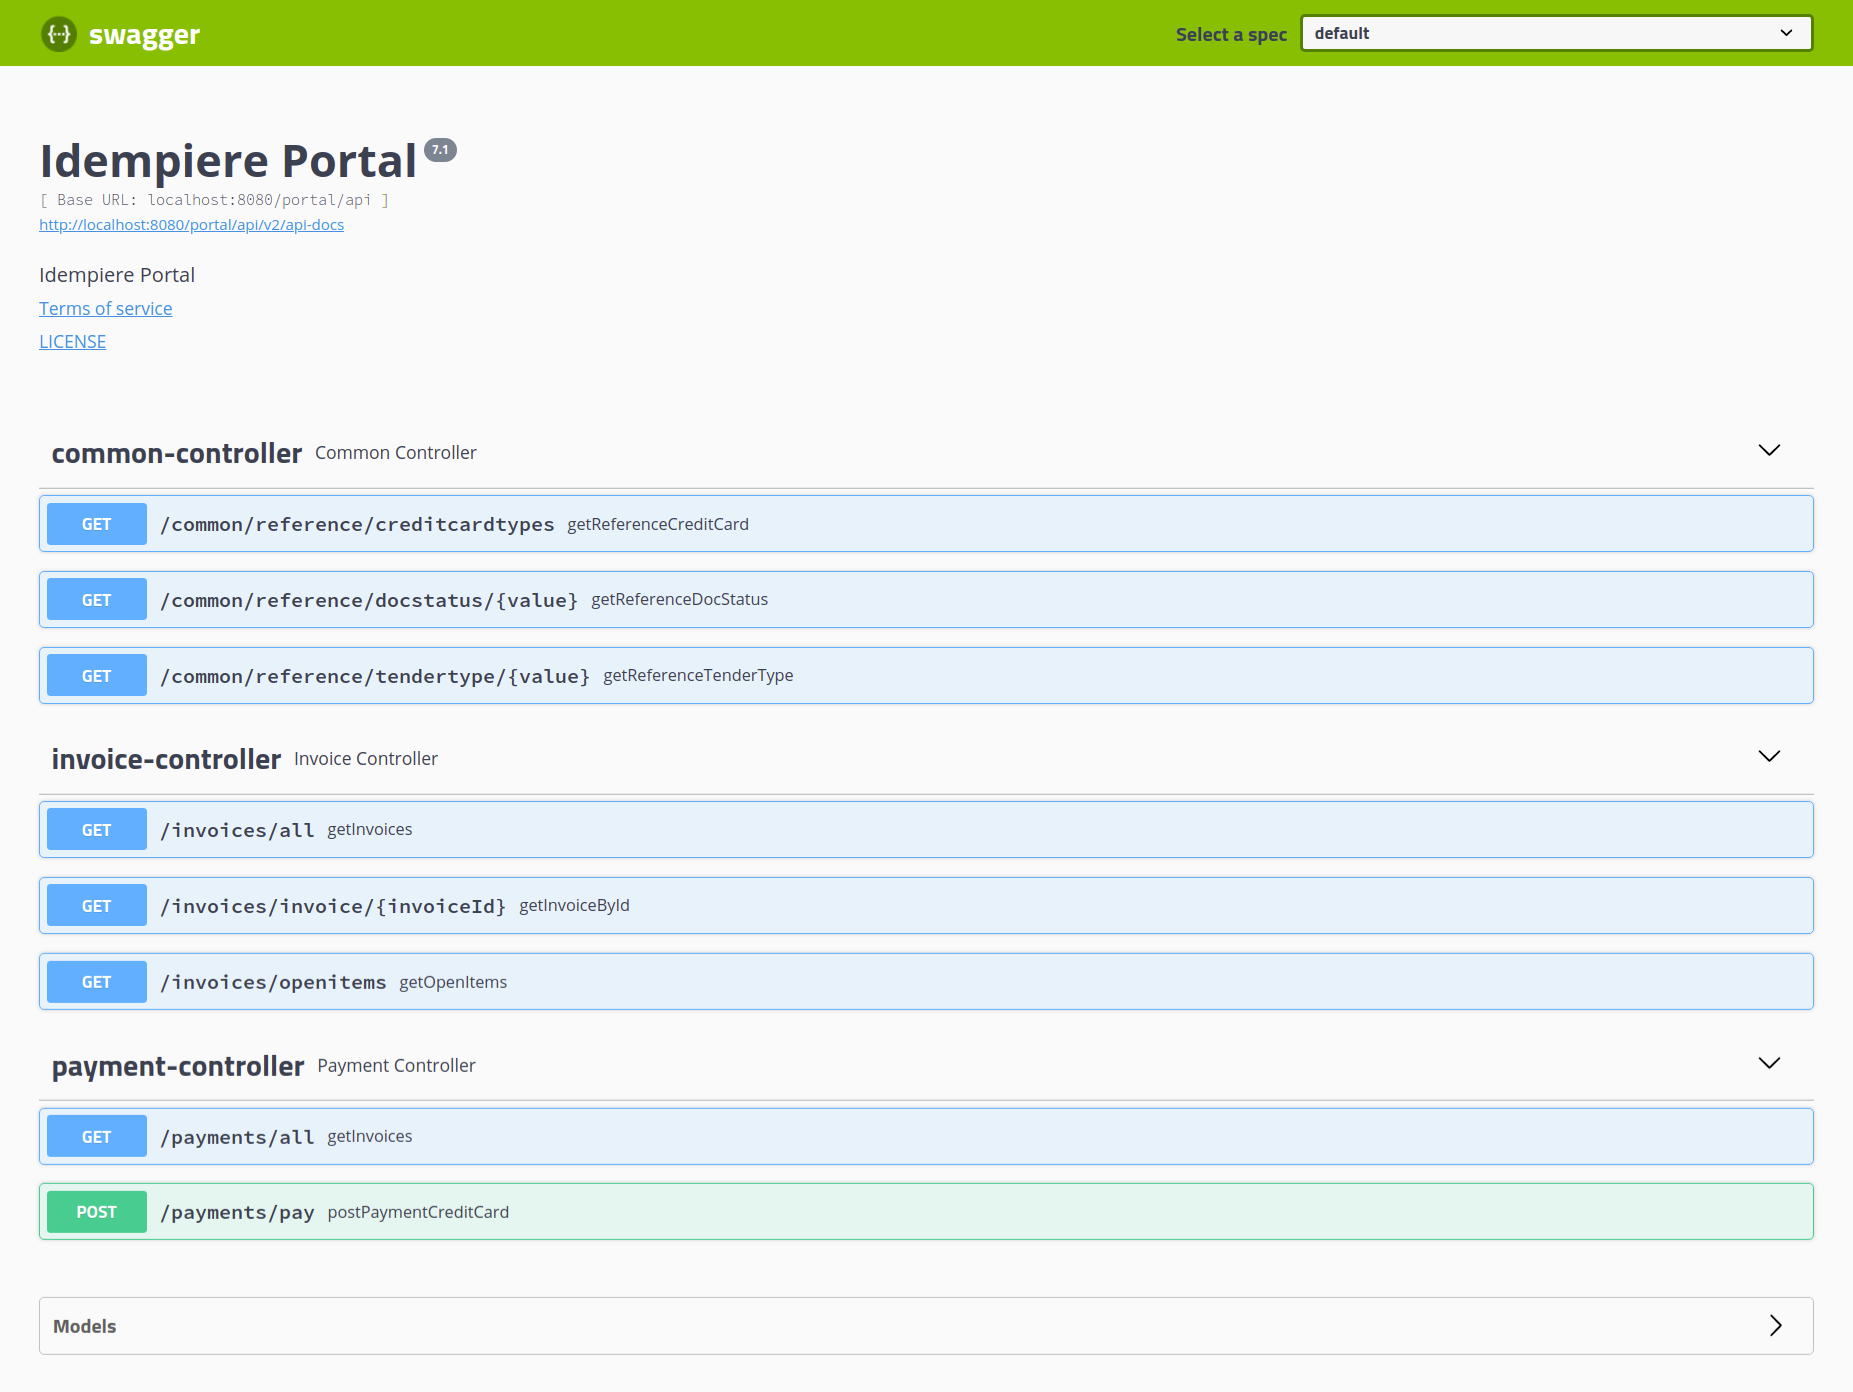
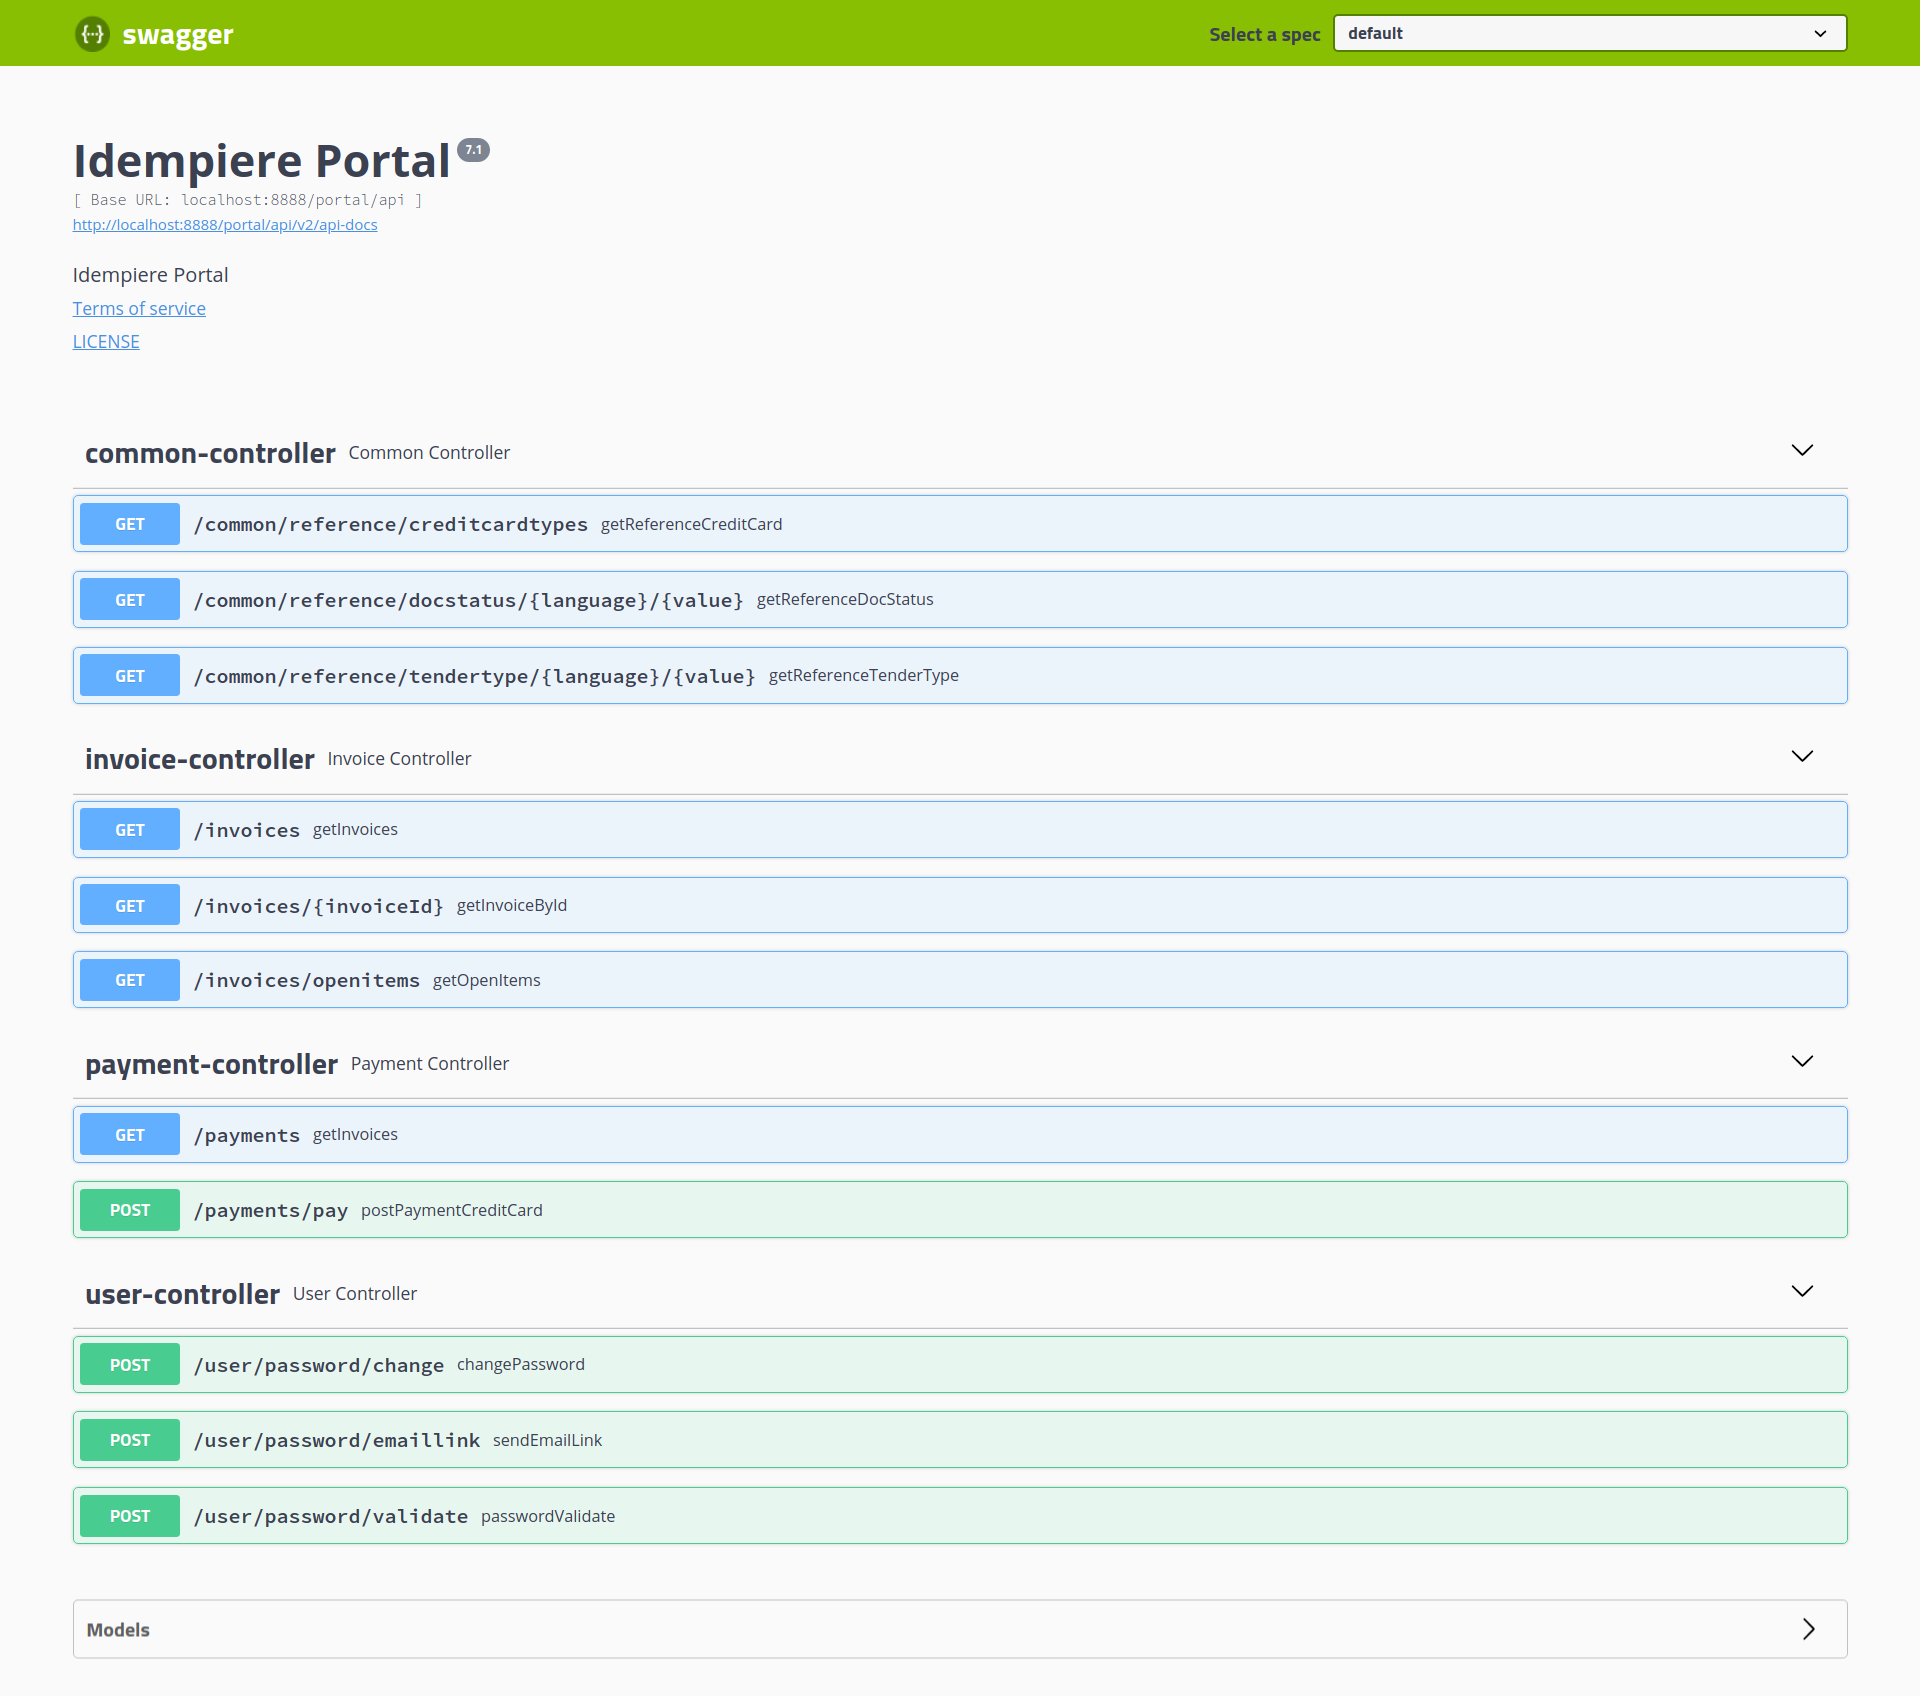
Changing Swagger Image

diff --git a/README.md b/README.md
@@ -12,8 +12,10 @@ This plugin is fully dependent on Spring Framework and integrates its features:
 
 *   Spring configuration with @Configuration annotation
 *	Idempiere context injected by application.properties
-*	Simple architecture with @Autowire annotation 
+*	Simple architecture with @Autowired annotation 
 *   JdbcTemplate used over native DB Idempiere static database connection
+*	Possibility to map Idempiere Model with BeanPropertyRowMapper
+*	Spring Security integrated
  
 
 From a functional point of view this plugin provides following features:
@@ -32,21 +34,13 @@ To build this plugin you need to get sources in your project directory:
 ```shell
 git clone https://github.com/icreated/portal-api.git
 ```
-**Important!**
-Edit pom.xml to link native Idempiere libraries with parent project.
-If you put sources directly in Idempiere sources folder, it will be
-
-```xml
-<relativePath>../org.idempiere.parent/pom.xml</relativePath>
-```
-like others Idempiere plugins, otherwise modify it.
 
 Be sure to satisfy all required dependencies. All needed jars are added directly to lib folder.
 
 
 ### Deploying / Publishing / Testing
 Check if it works by accessing to Swagger Home Page:
-[http://localhost:8080/portal/api/swagger-ui.html](http://localhost:8080/portal/api/swagger-ui.html) 
+[http://localhost:8888/portal/api](http://localhost:8888/portal/api) 
 To connect to API you have to provide AD_User Value and Password. For example: gardenusr / GardenUser
 
 !["Swagger UI"](Swagger_UI.png "Swagger UI") 
